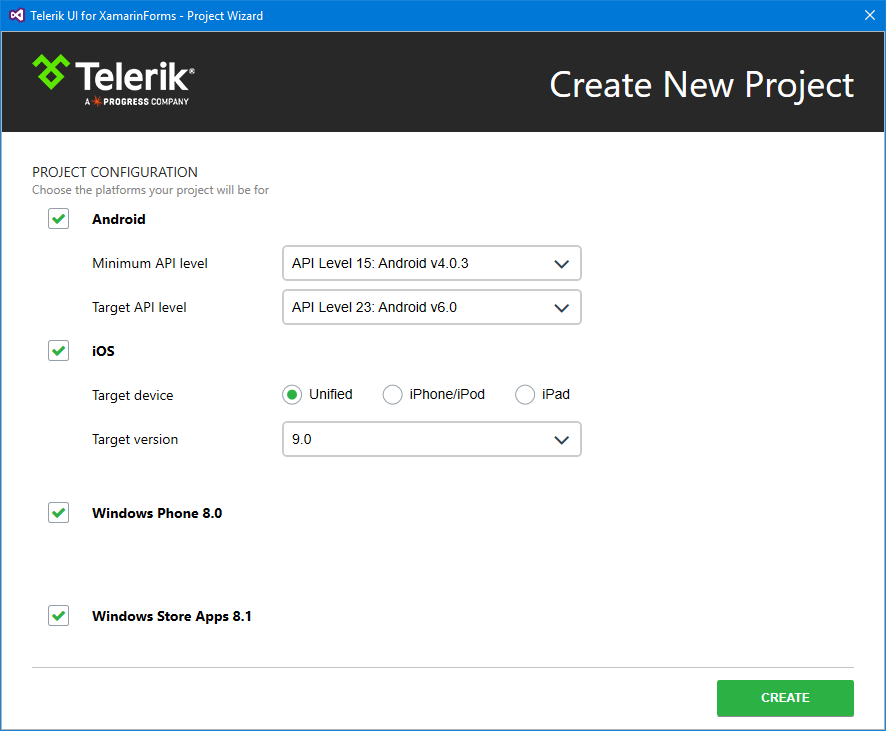
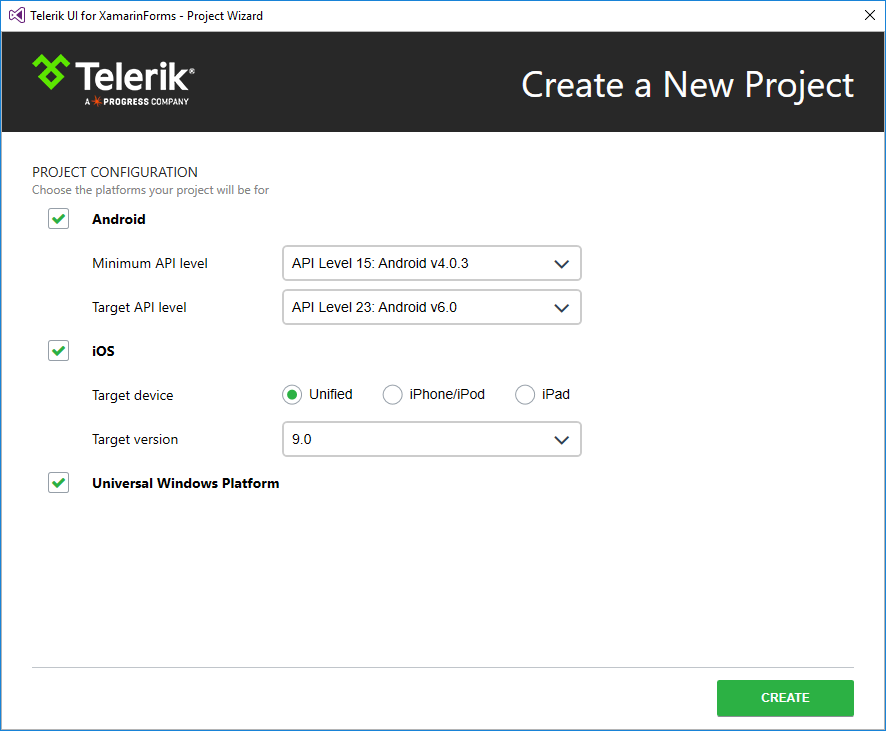
update image and tip

diff --git a/installation-and-deployment/windows/project-wizard.md b/installation-and-deployment/windows/project-wizard.md
@@ -12,9 +12,9 @@ This article introduces the **Telerik UI for Xamarin.Forms Project Wizard**. The
 
 ![Visual Studio Project Wizard](../images/visual-studio-project-wizard.png)
 
-It allows customers to select which platform(s) their application target(s) and the wizard will automatically reference all required binaries and packages.
+It allows customers to select which platform(s) their application targets and the wizard will automatically reference all required Telerik binaries and packages.
 
->With the official Q2 2016 release the Project Wizard is included in the automatic installation of the Telerik UI for Xamarin.Forms suite of controls.
+>With the minor release R1 **2017.1.10301** the **Project Wizard** is part of our installer. The installer is integrated with **Visual Studio 2017** and automatically installs both the Project Wizard and the available Item Templates.
 
 # New Project
 
